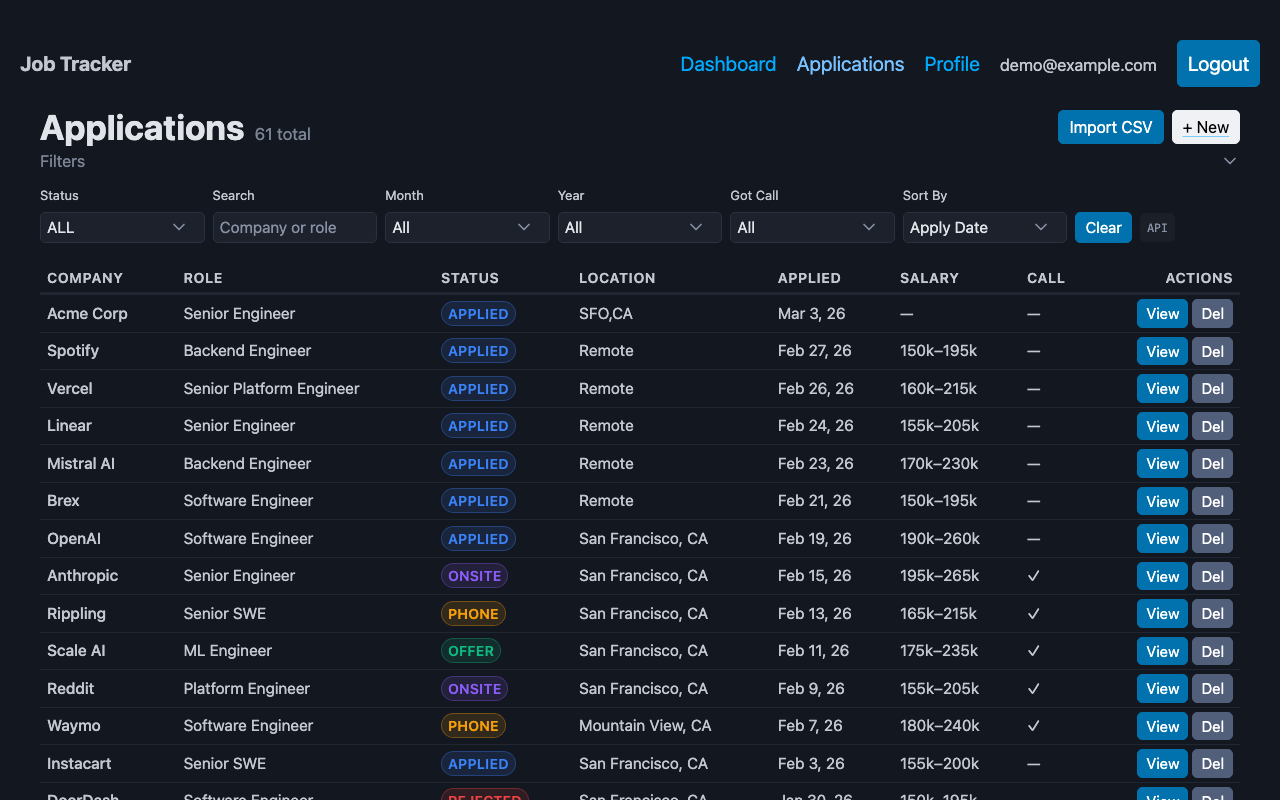
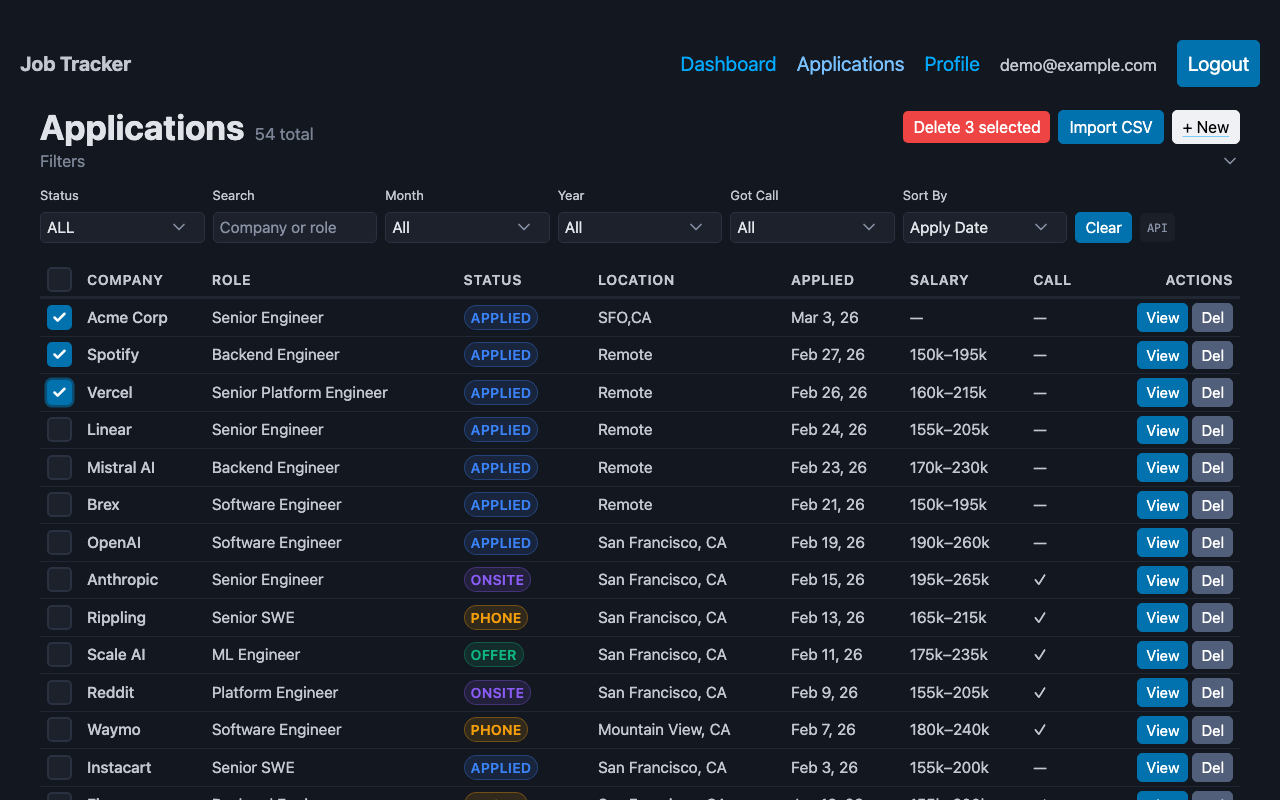
feat(applications): add bulk delete with per-row and select-all checkboxes
- Checkbox column added to the applications table; header checkbox
  selects/deselects the entire current page
- "Delete N selected" button appears in the toolbar when any rows are
  checked; fires parallel DELETE /v1/applications/{id} calls via
  Promise.all and removes deleted rows from the list immediately
- Selection auto-clears on page navigation and any filter change
- Update applications screenshot and README feature list

diff --git a/frontend/src/routes/Applications.tsx b/frontend/src/routes/Applications.tsx
@@ -73,6 +73,9 @@ export default function Applications() {
   // reset to page 0 when filters change
   useEffect(() => { setPage(0) }, [status, search, month, year, gotCall, sortBy])
 
+  // clear selection when page or filters change
+  useEffect(() => { setSelected(new Set()) }, [status, search, month, year, gotCall, sortBy, page])
+
   const debouncedSearch = useDebounce(search, 300)
 
   const [rows, setRows] = useState<Application[]>([])
@@ -83,6 +86,8 @@ export default function Applications() {
   const [loadKey, setLoadKey] = useState(0)
 
   const [deletingId, setDeletingId] = useState<string | null>(null)
+  const [selected, setSelected] = useState<Set<string>>(new Set())
+  const [bulkDeleting, setBulkDeleting] = useState(false)
   const [toast, setToast] = useState<string | null>(null)
 
   // CSV import state
@@ -148,6 +153,23 @@ export default function Applications() {
     }
   }
 
+  async function handleBulkDelete() {
+    const ids = Array.from(selected)
+    if (!confirm(`Delete ${ids.length} application${ids.length > 1 ? 's' : ''}?`)) return
+    setBulkDeleting(true)
+    try {
+      await Promise.all(ids.map(id => USE_MOCK ? mockDelete(id) : apiDelete(id)))
+      setRows(prev => prev.filter(r => !selected.has(r.id)))
+      setSelected(new Set())
+      setToast(`Deleted ${ids.length} application${ids.length > 1 ? 's' : ''}`)
+      setTimeout(() => setToast(null), 2500)
+    } catch {
+      alert('One or more deletions failed')
+    } finally {
+      setBulkDeleting(false)
+    }
+  }
+
   function openImportModal() {
     setImportFile(null); setImportResult(null); setImportError(null); setShowImport(true)
   }
@@ -206,6 +228,16 @@ export default function Applications() {
           </small>}
         </h2>
         <div style={{ display: 'flex', justifyContent: 'flex-end', alignItems: 'center', gap: '.4rem' }}>
+          {selected.size > 0 && (
+            <button
+              type="button"
+              style={{ padding: '4px 10px', fontSize: '0.8rem', marginBottom: 0, background: '#ef4444', border: 'none', color: '#fff' }}
+              disabled={bulkDeleting}
+              onClick={handleBulkDelete}
+            >
+              {bulkDeleting ? 'Deleting…' : `Delete ${selected.size} selected`}
+            </button>
+          )}
           <div style={{ position: 'relative', display: 'inline-flex' }} className="csv-tooltip-wrap">
             <button type="button" style={{ padding: '4px 10px', fontSize: '0.8rem', marginBottom: 0 }} onClick={openImportModal}>Import CSV</button>
             <div className="csv-tooltip">
@@ -364,6 +396,14 @@ export default function Applications() {
             <table style={{ fontSize: '0.78rem', width: '100%', borderCollapse: 'collapse' }}>
               <thead>
                 <tr>
+                  <th style={{ ...thStyle, width: '2rem' }}>
+                    <input
+                      type="checkbox"
+                      style={{ margin: 0 }}
+                      checked={rows.length > 0 && rows.every(r => selected.has(r.id))}
+                      onChange={e => setSelected(e.target.checked ? new Set(rows.map(r => r.id)) : new Set())}
+                    />
+                  </th>
                   <th style={thStyle}>Company</th>
                   <th style={thStyle}>Role</th>
                   <th style={thStyle}>Status</th>
@@ -377,6 +417,18 @@ export default function Applications() {
               <tbody>
                 {rows.map(r => (
                   <tr key={r.id}>
+                    <td style={{ ...cellStyle, maxWidth: 'none' }}>
+                      <input
+                        type="checkbox"
+                        style={{ margin: 0 }}
+                        checked={selected.has(r.id)}
+                        onChange={e => setSelected(prev => {
+                          const next = new Set(prev)
+                          e.target.checked ? next.add(r.id) : next.delete(r.id)
+                          return next
+                        })}
+                      />
+                    </td>
                     <td style={{ ...cellStyle, fontWeight: 500 }}>{r.company}</td>
                     <td style={roleCell}>{r.role}</td>
                     <td style={{ ...cellStyle, maxWidth: 'none' }}><StatusBadge status={r.status} /></td>
@@ -403,7 +455,7 @@ export default function Applications() {
                   </tr>
                 ))}
                 {rows.length === 0 && (
-                  <tr><td colSpan={8} style={{ textAlign: 'center', padding: '2rem', color: 'var(--pico-muted-color)' }}>No results</td></tr>
+                  <tr><td colSpan={9} style={{ textAlign: 'center', padding: '2rem', color: 'var(--pico-muted-color)' }}>No results</td></tr>
                 )}
               </tbody>
             </table>

diff --git a/README.md b/README.md
@@ -124,6 +124,7 @@ This is the **Transactional Outbox Pattern** — Kafka being down never causes d
 - **JWT Authentication** — HS256 token-based auth, enforced by Spring Security on all services; each user sees only their own data
 - **Full CRUD** — Create, read, update, and soft-delete job applications with rich fields: apply date, salary range, job link, call received, reject date, resume, login details, notes
 - **CSV Import** — Bulk import applications from a spreadsheet export; handles quoted commas, multiple date formats, salary parsing (`$50K`, `50,000–80,000`), and flexible status mapping (`Open` → APPLIED, `Closed` → REJECTED, Open + Call → PHONE)
+- **Bulk delete** — Select any number of applications via per-row checkboxes or the select-all header checkbox, then delete them all in one click; deletions are fired in parallel and the list updates immediately
 - **Advanced filtering** — Filter applications by status, search (company/role), month, year, and call received; sort by apply date or date added; page-based pagination (20 per page)
 - **Analytics Dashboard** — By Month / By Year toggle with grouped Applied vs Rejected bar chart, summary table, and 7 open-window KPI cards (last 7d / 15d / 30d / 3mo / 6mo / 9mo / 1yr)
 - **Pre-computed aggregate tables** — `agg_monthly` and `agg_weekly` in `jt_stats` are maintained in-sync by stats-listener (recomputed atomically on every Kafka event); stats-service reads from these tables with indexed scans instead of live GROUP BY on the raw snapshot
